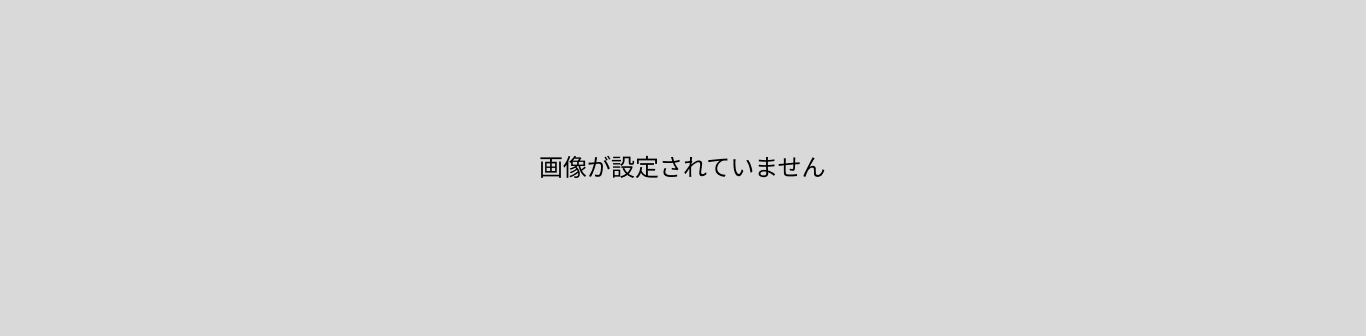
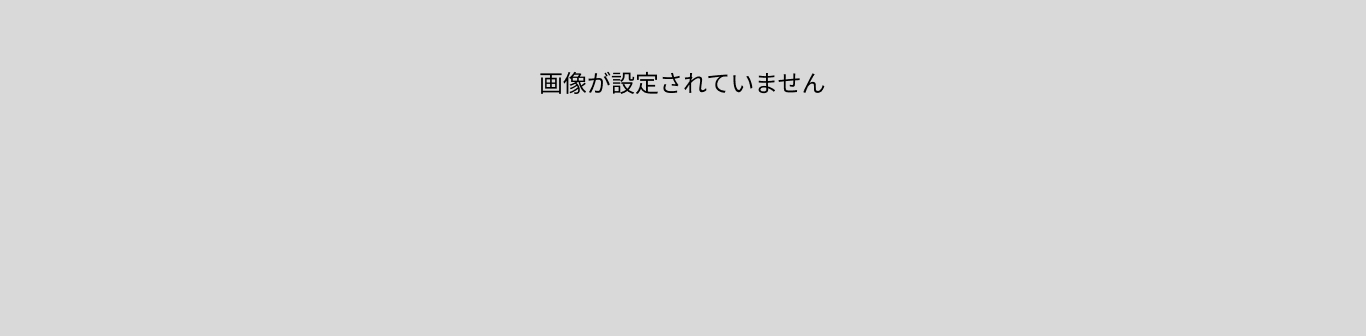
ポートフォリオブランク画像修正

Changed region(s): [[0.3997, 0.4464, 0.6149, 0.5357], [0.3997, 0.2083, 0.6149, 0.2976]]

diff --git a/src/Controller/PortfoliosController.php b/src/Controller/PortfoliosController.php
@@ -1,4 +1,5 @@
 <?php
+
 declare(strict_types=1);
 
 namespace App\Controller;
@@ -39,7 +40,7 @@ class PortfoliosController extends AppController
 
         $user = $this->Users->find('all', ['conditions' => ['username' => $username]])->first();
 
-        if (is_null($user) || $user->autherized_flg	== 0) {
+        if (is_null($user) || $user->autherized_flg    == 0) {
             return $this->redirect('/');
         }
 
@@ -47,8 +48,64 @@ class PortfoliosController extends AppController
 
         $site = $this->Sites->find('all', ['conditions' => ['user_id' => $user->id]])->first();
 
+        // viewに渡すデータセット
         $this->set('profile', $profile);
         $this->set('site', $site);
         $this->set('username', $username);
+        // 画像のパス
+        $this->set('profile_image', $this->profile_image($profile, $username));
+        $this->set('favicon', $this->favicon($site, $username));
+        $this->set('header_image', $this->header_image($site, $username));
+    }
+
+    /**
+     * プロフィール画像
+     * 
+     * @param object $entity
+     * @param string $username
+     * 
+     * @return string
+     */
+    private function profile_image($entity, $username)
+    {
+        if (is_null($entity->image_path) || !file_exists(ProfilesTable::ROOT_PROFILE_IMAGE_PATH)) {
+            return ProfilesTable::BLANK_PROFILE_IMAGE_PATH;
+        } else {
+            return ProfilesTable::PROFILE_IMAGE_PATH .  $username . '/' . $entity->image_path;
+        }
+    }
+
+    /**
+     * ファビコン
+     * 
+     * @param object $entity
+     * @param string $username
+     * 
+     * @return string|null
+     */
+    private function favicon($entity, $username)
+    {
+        if (is_null($entity->favicon_path) || !file_exists(SitesTable::ROOT_FAVICON_PATH)) {
+            return null;
+        } else {
+            return SitesTable::FAVICON_PATH . $username . '/' . $entity->favicon_path;
+        }
+    }
+
+    /**
+     * ヘッダー画像
+     * 
+     * @param object $entity
+     * @param string $username
+     * 
+     * @return string
+     */
+    private function header_image($entity, $username)
+    {
+        if (is_null($entity->header_image_path) || !file_exists(SitesTable::ROOT_HEADER_IMAGE_PATH)) {
+            return SitesTable::BLANK_HEADER_IMAGE_PATH;
+        } else {
+            return SitesTable::HEADER_IMAGE_PATH . $username . '/' . $entity->header_image_path;
+        }
     }
 }

diff --git a/templates/Portfolios/index.php b/templates/Portfolios/index.php
@@ -4,7 +4,9 @@
 <head>
     <meta charset="UTF-8">
     <meta name="viewport" content="width=device-width, initial-scale=1.0">
-    <link rel="icon" href="<?= $this->Url->image('users/sites/favicons/' . $username . '/' . $site->favicon_path) ?>">
+    <?php if (!is_null($favicon)) : ?>
+        <link rel="icon" href="<?= $this->Url->image($favicon) ?>">
+    <?php endif; ?>
     <meta name="description" content="<?= h($site->site_description) ?>">
     <?= $this->Html->css('portfolios') ?>
     <title><?= h($site->site_title) ?></title>
@@ -13,9 +15,9 @@
 <body>
     <div class="fv">
         <div class="fv_bg_cover"></div>
-        <div class="fv_bg" style="background-image: url('<?= $this->Url->image('users/sites/headers/' . $username . '/' . $site->header_image_path) ?>');"></div>
+        <div class="fv_bg" style="background-image: url('<?= $this->Url->image($header_image) ?>');"></div>
         <div class="fv_container">
-            <div class="fv_user_icon"><?= $this->Html->image('users/profiles/' . h($username) . '/' . h($profile->image_path)) ?></div>
+            <div class="fv_user_icon"><?= $this->Html->image($profile_image) ?></div>
             <div class="fv_user_content">
                 <p class="fv_user_name"><?= h($profile->view_name) ?></p>
                 <p class="fv_user_works"><?= h($profile->works) ?></p>

diff --git a/templates/Admin/Sites/index.php b/templates/Admin/Sites/index.php
@@ -11,7 +11,7 @@ if (is_null($site->favicon_path) || !file_exists(SitesTable::ROOT_FAVICON_PATH))
 
 // ヘッダー画像が設定されているか判定
 if (is_null($site->header_image_path) || !file_exists(SitesTable::ROOT_HEADER_IMAGE_PATH)) {
-    $header_image_path = SitesTable::BLANK_HEADER_IMAGE_PATH;
+    $header_image_path = SitesTable::BLANK_HEADER_ADMIN_IMAGE_PATH;
 } else {
     $header_image_path = SitesTable::HEADER_IMAGE_PATH . $auth->username . '/' . $site->header_image_path;
 }

diff --git a/templates/Admin/Sites/edit_header_image.php b/templates/Admin/Sites/edit_header_image.php
@@ -4,7 +4,7 @@ use App\Model\Table\SitesTable;
 
 // ヘッダー画像が設定されているか判定
 if (is_null($site->header_image_path) || !file_exists(SitesTable::ROOT_HEADER_IMAGE_PATH)) {
-    $header_image_path = SitesTable::BLANK_HEADER_IMAGE_PATH;
+    $header_image_path = SitesTable::BLANK_HEADER_ADMIN_IMAGE_PATH;
 } else {
     $header_image_path = SitesTable::HEADER_IMAGE_PATH . $auth->username . '/' . $site->header_image_path;
 }

diff --git a/src/Model/Table/SitesTable.php b/src/Model/Table/SitesTable.php
@@ -57,6 +57,7 @@ class SitesTable extends Table
     // ブランク画像のパス
     const BLANK_FAVICON_PATH = 'blank/sites/favicons/favicon_blank.jpg';
     const BLANK_HEADER_IMAGE_PATH = 'blank/sites/headers/header_blank_image.jpg';
+    const BLANK_HEADER_ADMIN_IMAGE_PATH = 'blank/sites/headers/header_admin_blank_image.jpg';
 
     /**
      * 画像の拡張子
